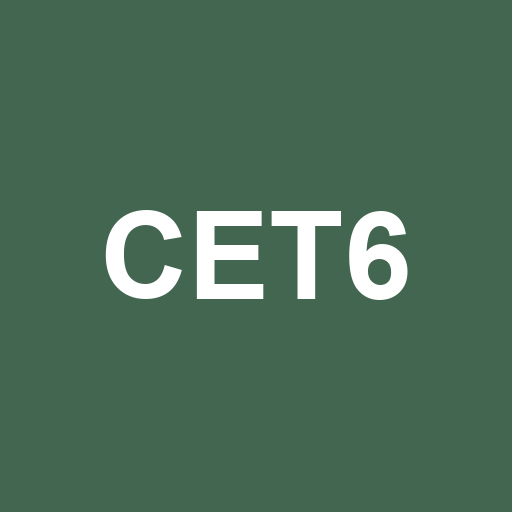
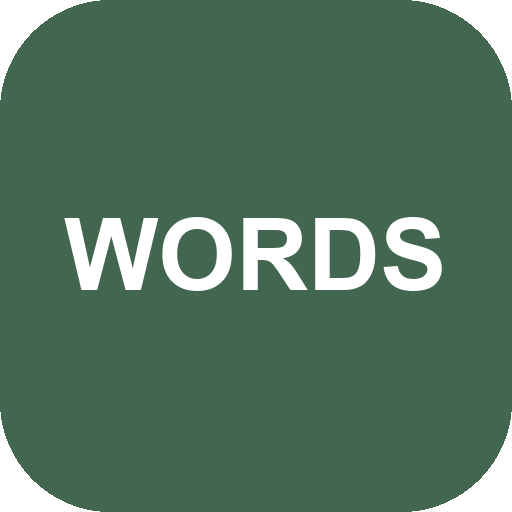
Add files via upload

diff --git a/app.js b/app.js
@@ -1,6 +1,8 @@
 'use strict';
 const $ = s => document.querySelector(s);
 const LABELS = ['陌生', '初识', '模糊', '熟悉', '已掌握'];
+// 展示用词书名称配置；不改变词库、学习设置或存储键。
+const APP_CONFIG = {activeBookName:'CET-6 六级词汇'};
 const DEFAULTS = {dailyNew:40, autoSpeak:false, gestures:false};
 let settings = {...DEFAULTS}, db, words = [], records = [], session = null, revealed = false, busy = false, listLimit = 80;
 let savedSettings, visibleDay = day(), refreshPending = false, clockTimer, utterance = null, appReady = false;
@@ -80,7 +82,7 @@ function home() {
   p.fresh=[...pending.values()].filter(isNew);p.reviews=[...pending.values()].filter(w=>!isNew(w));p.weak=[];
   const remaining=pending.size;
   const percent = r.completedWords + remaining ? Math.round(r.completedWords/(r.completedWords+remaining)*100) : 0;
-  return `<div class="eyebrow">YOUR DAILY PRACTICE</div><h1>CET-6 · 550+</h1><p class="muted">把每一天的小进步，变成考场上的底气。</p><section class="panel"><div class="row"><h2>今日任务</h2><span class="caption">${new Date().toLocaleDateString('zh-CN',{month:'long',day:'numeric'})}</span></div><div class="metrics"><div class="metric"><strong>${p.reviews.length+p.weak.length}</strong><span>今日待复习</span></div><div class="metric"><strong>${p.fresh.length}</strong><span>今日新词</span></div><div class="metric"><strong>${r.completedWords}</strong><span>今日已完成</span></div></div><div class="row caption"><span>今日进度</span><span>${percent}%</span></div><progress value="${percent}" max="100"></progress><button class="primary wide" data-action="start">${session?.queue.length ? '继续今日学习' : '开始今日学习'} <span aria-hidden="true">→</span></button></section><div class="overview"><div class="stat"><span>连续学习</span><strong>${streak()} 天</strong></div><div class="stat"><span>当前总词数</span><strong>${words.length}</strong></div>${[0,2,3,4].map(n=>`<div class="stat"><span>${LABELS[n]}词</span><strong>${words.filter(w=>w.mastery===n).length}</strong></div>`).join('')}</div><p class="tip">先回忆，再看答案。记不住的词，今天还会再见。<br>内置 20 个示例词，可在「我的」导入自己的词库。</p>`;
+  return `<div class="eyebrow">YOUR DAILY PRACTICE</div><h1>WORDS</h1><p class="muted">每天一点，慢慢记住。</p><p class="caption">当前词书：${esc(APP_CONFIG.activeBookName)}</p><section class="panel"><div class="row"><h2>今日任务</h2><span class="caption">${new Date().toLocaleDateString('zh-CN',{month:'long',day:'numeric'})}</span></div><div class="metrics"><div class="metric"><strong>${p.reviews.length+p.weak.length}</strong><span>今日待复习</span></div><div class="metric"><strong>${p.fresh.length}</strong><span>今日新词</span></div><div class="metric"><strong>${r.completedWords}</strong><span>今日已完成</span></div></div><div class="row caption"><span>今日进度</span><span>${percent}%</span></div><progress value="${percent}" max="100"></progress><button class="primary wide" data-action="start">${session?.queue.length ? '继续今日学习' : '开始今日学习'} <span aria-hidden="true">→</span></button></section><div class="overview"><div class="stat"><span>连续学习</span><strong>${streak()} 天</strong></div><div class="stat"><span>当前总词数</span><strong>${words.length}</strong></div>${[0,2,3,4].map(n=>`<div class="stat"><span>${LABELS[n]}词</span><strong>${words.filter(w=>w.mastery===n).length}</strong></div>`).join('')}</div><p class="tip">先回忆，再看答案。记不住的词，今天还会再见。<br>内置 20 个示例词，可在「我的」导入自己的词库。</p>`;
 }
 async function start() {
   return withWrite(async()=>{
@@ -97,11 +99,27 @@ async function start() {
   });
 }
 function autoSpeak() { if (settings.autoSpeak && session?.date===day() && session.queue.length && location.hash==='#study') speak(session.queue[0]); }
+function importanceHTML(w) {
+  return w.level?.toLowerCase()==='cet6'&&Number.isInteger(w.importance)&&w.importance>=1&&w.importance<=5 ? `<div class="importance" aria-label="六级重要度 ${w.importance} 星"><span aria-hidden="true">${'★'.repeat(w.importance)}${'☆'.repeat(5-w.importance)}</span><small>六级重要度</small></div>` : '';
+}
+function wordMetadata(w,full=false) {
+  // 核心词性随答案一起呈现，避免展示全量词典词性或重复占据屏幕。
+  const pos=full?w.pos:w.coreMeaning?.trim()?'':w.corePos||w.pos;
+  return `${w.phonetic?.trim()?`<div class="phonetic">${esc(w.phonetic)}</div>`:''}${pos?.trim()?`<div class="word-pos">${esc(pos)}</div>`:''}${importanceHTML(w)}`;
+}
+function meaningHTML(w,full=false) {
+  // 仅按来源已有的换行排版；不将未标注的中文意思猜配给某个词性。
+  const meaning=!full&&w.coreMeaning?.trim()?`${w.corePos?.trim()?w.corePos+' ':''}${w.coreMeaning}`:w.meaning;
+  return meaning.split(/\r?\n/).filter(line=>line.trim()).map(line=>`<div class="meaning-line">${esc(line)}</div>`).join('');
+}
+function answerHTML(w,full=false) {
+  return `<div class="answer"><div class="meaning">${meaningHTML(w,full)}</div>${w.example?.trim()?`<p class="example" lang="en">${esc(w.example)}</p>`:''}${w.exampleZh?.trim()?`<p class="muted example-zh">${esc(w.exampleZh)}</p>`:''}${full&&w.definition?.trim()?`<div class="dictionary-definition"><span class="caption">英文释义 · 完整词典义项</span><p class="example" lang="en">${esc(w.definition)}</p></div>`:''}<span class="badge">当前状态 · ${LABELS[w.mastery]}</span></div>`;
+}
 function study() {
   const waiting=words.some(w=>w.nextReview&&Date.parse(w.nextReview)>Date.now()&&Date.parse(w.nextReview)<=Date.now()+10*60000);
   if (!session || session.date !== day() || !session.queue.length) return `<div class="eyebrow">ONE WORD AT A TIME</div><h1>留一点时间，给记忆。</h1><section class="panel empty"><p>${session?.answered ? waiting?'本轮暂告一段落，稍后可再练未记住的词。':'本轮学习完成，做得不错。' : '准备好开始今天的学习了吗？'}</p><button class="primary wide" data-action="start">开始今日学习</button></section><p class="tip">到期复习优先，其次是容易遗忘的词，最后是新词。</p>`;
   const w = words.find(w=>w.word===session.queue[0]); if (!w) return '<p>词库记录缺失，请重新开始学习。</p>';
-  return `<div class="study-head row"><span class="caption">今日学习</span><strong>${session.answered+1} / ${session.answered+session.queue.length}</strong></div><progress value="${session.answered}" max="${session.answered+session.queue.length}"></progress><section id="word-card" class="panel word-card ${revealed?'revealed':''}"><div id="gesture-zone" class="${settings.gestures&&revealed?'gesture-surface':''}"><span class="badge">${w.reviewCount?'复习单词':'新单词'}</span><h1 class="word">${esc(w.word)}</h1><div class="phonetic">${esc(w.phonetic)}</div><div class="word-tools"><button class="icon" data-action="speak" data-word="${esc(w.word)}" aria-label="朗读单词">♪</button><button class="icon" data-action="favorite" data-word="${esc(w.word)}" aria-label="${w.favorite?'取消收藏':'收藏单词'}" aria-pressed="${w.favorite}">${w.favorite?'★':'☆'}</button></div></div>${revealed?`<div class="answer"><div class="meaning">${esc(w.meaning)}</div><p class="example">${esc(w.example)}</p><p class="muted">${esc(w.exampleZh)}</p><span class="badge">当前状态 · ${LABELS[w.mastery]}</span></div>`:'<p class="tip">想一想，它是什么意思？</p>'}</section><p class="caption" style="text-align:center">${settings.gestures?'答案显示后：左滑不认识 · 上滑模糊 · 右滑认识':'按自己的记忆情况选择，不用急。'}</p><div class="actions"><div class="actions-inner">${revealed?'<button class="unknown" data-answer="0">不认识</button><button class="fuzzy" data-answer="1">模糊</button><button class="primary" data-answer="2">认识</button>':'<button class="primary" data-action="reveal">显示答案</button>'}</div></div>`;
+  return `<div class="study-head row"><span class="caption">今日学习</span><strong>${session.answered+1} / ${session.answered+session.queue.length}</strong></div><progress value="${session.answered}" max="${session.answered+session.queue.length}"></progress><section id="word-card" class="panel word-card ${revealed?'revealed':''}"><div id="gesture-zone" class="${settings.gestures&&revealed?'gesture-surface':''}"><span class="badge">${w.reviewCount?'复习单词':'新单词'}</span><h1 class="word">${esc(w.word)}</h1>${wordMetadata(w)}<div class="word-tools"><button class="icon" data-action="speak" data-word="${esc(w.word)}" aria-label="朗读单词">♪</button><button class="icon" data-action="favorite" data-word="${esc(w.word)}" aria-label="${w.favorite?'取消收藏':'收藏单词'}" aria-pressed="${w.favorite}">${w.favorite?'★':'☆'}</button></div></div>${revealed?answerHTML(w):'<p class="tip">想一想，它是什么意思？</p>'}</section><p class="caption" style="text-align:center">${settings.gestures?'答案显示后：左滑不认识 · 上滑模糊 · 右滑认识':'按自己的记忆情况选择，不用急。'}</p><div class="actions"><div class="actions-inner">${revealed?'<button class="unknown" data-answer="0">不认识</button><button class="fuzzy" data-answer="1">模糊</button><button class="primary" data-answer="2">认识</button>':'<button class="primary" data-action="reveal">显示答案</button>'}</div></div>`;
 }
 async function answer(value) {
   if (busy || !revealed || !session?.queue.length || ![0,1,2].includes(value)) return;
@@ -137,7 +155,7 @@ function updateList() {
 }
 function detail(id) {
   const w = words.find(w=>w.word===id); if (!w) return '<p>没有找到这个单词。</p>';
-  return `<button class="quiet back" data-action="back">← 返回词库</button><section class="panel"><h1 class="word">${esc(w.word)}</h1><p class="phonetic">${esc(w.phonetic)}</p><div class="row"><button data-action="speak" data-word="${esc(w.word)}">♪ 发音</button><button data-action="favorite" data-word="${esc(w.word)}">${w.favorite?'★ 已收藏':'☆ 收藏'}</button></div><div class="answer"><p class="meaning">${esc(w.meaning)}</p><p>${esc(w.example)}</p><p class="muted">${esc(w.exampleZh)}</p></div><div class="setting"><label>掌握等级<select id="mastery" data-word="${esc(w.word)}">${LABELS.map((l,i)=>`<option value="${i}" ${w.mastery===i?'selected':''}>${l}</option>`).join('')}</select></label></div><div class="detail-info"><div><span>复习次数</span>${w.reviewCount}</div><div><span>收藏</span>${w.favorite?'是':'否'}</div><div><span>上次复习</span>${dateText(w.lastReview)}</div><div><span>下次复习</span>${dateText(w.nextReview)}</div></div></section>`;
+  return `<button class="quiet back" data-action="back">← 返回词库</button><section class="panel"><h1 class="word">${esc(w.word)}</h1>${wordMetadata(w,true)}<div class="row"><button data-action="speak" data-word="${esc(w.word)}">♪ 发音</button><button data-action="favorite" data-word="${esc(w.word)}">${w.favorite?'★ 已收藏':'☆ 收藏'}</button></div>${answerHTML(w,true)}<div class="setting"><label>掌握等级<select id="mastery" data-word="${esc(w.word)}">${LABELS.map((l,i)=>`<option value="${i}" ${w.mastery===i?'selected':''}>${l}</option>`).join('')}</select></label></div><div class="detail-info"><div><span>复习次数</span>${w.reviewCount}</div><div><span>收藏</span>${w.favorite?'是':'否'}</div><div><span>上次复习</span>${dateText(w.lastReview)}</div><div><span>下次复习</span>${dateText(w.nextReview)}</div></div></section>`;
 }
 function me() {
   const r = todayRecord(), week = records.filter(r=>r.date>=shiftDay(-6)&&r.date<=day()).reduce((sum,r)=>sum+r.completedWords,0);
@@ -230,7 +248,9 @@ function normalizeWord(w,full=false) {
   // 可选词库元数据：旧词库缺失时使用空值，CSV 数值转为数字。
   const rawFrequency=w.frequency, frequency=rawFrequency==null || typeof rawFrequency==='string'&&!rawFrequency.trim() ? null : Number(rawFrequency);
   if(frequency!==null&&(!['string','number'].includes(typeof rawFrequency)||!Number.isFinite(frequency)||frequency<0))throw new Error('frequency 必须为非负数字或空值');
-  const out={word:w.word.trim().toLowerCase(),phonetic:optionalText(w.phonetic,'phonetic'),meaning:w.meaning.trim(),example:optionalText(w.example,'example'),exampleZh:optionalText(w.exampleZh,'exampleZh'),frequency,level:optionalText(w.level,'level',true),source:optionalText(w.source,'source'),mastery:0,reviewCount:0,lastReview:null,nextReview:null,favorite:false,createdAt:new Date().toISOString()};
+  const importance=w.importance==null||typeof w.importance==='string'&&!w.importance.trim()?null:Number(w.importance);
+  if(importance!==null&&(!['number','string'].includes(typeof w.importance)||!Number.isInteger(importance)||importance<1||importance>5))throw new Error('importance 必须为 1–5 的整数或空值');
+  const out={word:w.word.trim().toLowerCase(),phonetic:optionalText(w.phonetic,'phonetic'),meaning:w.meaning.trim(),example:optionalText(w.example,'example'),exampleZh:optionalText(w.exampleZh,'exampleZh'),frequency,level:optionalText(w.level,'level',true),source:optionalText(w.source,'source'),pos:optionalText(w.pos,'pos'),definition:optionalText(w.definition,'definition'),importance,importanceReason:optionalText(w.importanceReason,'importanceReason'),corePos:optionalText(w.corePos,'corePos'),coreMeaning:optionalText(w.coreMeaning,'coreMeaning'),mastery:0,reviewCount:0,lastReview:null,nextReview:null,favorite:false,createdAt:new Date().toISOString()};
   if(full){if(!Number.isInteger(w.mastery)||w.mastery<0||w.mastery>4||!Number.isSafeInteger(w.reviewCount)||w.reviewCount<0||typeof w.favorite!=='boolean')throw new Error('备份中的学习进度格式无效');Object.assign(out,{mastery:w.mastery,reviewCount:w.reviewCount,lastReview:normalizeDate(w.lastReview),nextReview:normalizeDate(w.nextReview),favorite:w.favorite,createdAt:normalizeDate(w.createdAt)||out.createdAt});if(w.reviewCount>0&&(!out.lastReview||!out.nextReview))throw new Error('已学习单词缺少复习日期');}
   return out;
 }
@@ -241,8 +261,18 @@ function mergeDictionary(old,incoming) {
   let changed=false;
   const fill=k=>{if((old[k]==null||typeof old[k]==='string'&&!old[k].trim())&&old[k]!==incoming[k]){old[k]=incoming[k];changed=true;}};
   ['phonetic','meaning','frequency','level','source'].forEach(fill);
+  // 增强字段可以更新；空字段不抹除已有内容。学习字段始终不参与合并。
+  for(const k of ['pos','definition','importance','importanceReason','corePos','coreMeaning']){
+    if(incoming[k]!=null&&incoming[k]!==''&&old[k]!==incoming[k]){old[k]=incoming[k];changed=true;}
+  }
+  // 保留原中文释义，仅接受在原文之后追加的补充内容。
+  if(incoming.meaning?.startsWith(old.meaning+'\n')&&incoming.meaning!==old.meaning){old.meaning=incoming.meaning;changed=true;}
   // 中英文例句必须对应，不能把另一条例句的翻译补到已有英文上。
-  if(!old.example?.trim()&&(!old.exampleZh?.trim()||old.exampleZh.trim()===incoming.exampleZh)){fill('example');fill('exampleZh');}
+  if(incoming.corePos&&incoming.coreMeaning&&incoming.example&&incoming.exampleZh){
+    // 经核心义清洗的词包可以修正已有例句，且中英文作为一对同步更新。
+    for(const k of ['example','exampleZh'])if(old[k]!==incoming[k]){old[k]=incoming[k];changed=true;}
+  }
+  else if(!old.example?.trim()&&(!old.exampleZh?.trim()||old.exampleZh.trim()===incoming.exampleZh)){fill('example');fill('exampleZh');}
   else if(old.example?.trim()===incoming.example)fill('exampleZh');
   return changed;
 }
@@ -264,7 +294,7 @@ async function exportData() {
   const url=URL.createObjectURL(new Blob([JSON.stringify(data,null,2)],{type:'application/json'})),a=document.createElement('a');a.href=url;a.download=`cet6-backup-${day()}.json`;document.body.append(a);a.click();a.remove();setTimeout(()=>URL.revokeObjectURL(url),30000);notify('备份已导出，请保存好 JSON 文件');
 }
 async function restoreData(data) {
-  if(data?.format!=='cet6-backup'||data.version!==1||!Array.isArray(data.words)||!Array.isArray(data.records)||!Array.isArray(data.meta))throw new Error('不是有效的 CET6 备份文件');
+  if(data?.format!=='cet6-backup'||data.version!==1||!Array.isArray(data.words)||!Array.isArray(data.records)||!Array.isArray(data.meta))throw new Error('不是有效的学习备份文件');
   const restored=data.words.map(w=>normalizeWord(w,true)), ids=new Set(restored.map(w=>w.word));if(ids.size!==restored.length)throw new Error('备份词库存在重复单词');
   validateRecords(data.records,ids);
   validateMeta(data.meta,ids);

diff --git a/index.html b/index.html
@@ -4,11 +4,12 @@
   <meta charset="UTF-8"><meta name="viewport" content="width=device-width, initial-scale=1, viewport-fit=cover">
   <meta name="theme-color" content="#426650"><meta name="apple-mobile-web-app-capable" content="yes">
   <meta name="apple-mobile-web-app-status-bar-style" content="default">
+  <meta name="apple-mobile-web-app-title" content="WORDS">
   <link rel="manifest" href="manifest.json"><link rel="icon" href="icons/icon.svg"><link rel="apple-touch-icon" href="icons/icon-192.png">
-  <link rel="stylesheet" href="style.css"><title>CET-6 Words</title>
+  <link rel="stylesheet" href="style.css"><title>WORDS</title>
 </head>
 <body>
-  <header class="brand"><a href="#home">CET6 <span>WORDS</span></a><span class="local-note">每天一点，慢慢记住。</span></header>
+  <header class="brand"><a href="#home">WORDS</a><span class="local-note">每天一点，慢慢记住。</span></header>
   <main id="app" aria-live="polite"><p>正在打开你的词库…</p></main>
   <nav aria-label="主导航" id="nav"><a href="#home">⌂<span>首页</span></a><a href="#study">Aa<span>背词</span></a><a href="#library">▤<span>词库</span></a><a href="#me">☷<span>我的</span></a></nav>
   <div id="toast" role="status"></div>

diff --git a/service-worker.js b/service-worker.js
@@ -1,4 +1,4 @@
-const CACHE = 'cet6-shell-v9';
+const CACHE = 'cet6-shell-v12';
 const FILES = ['./index.html', './style.css', './app.js', './sample-words.json', './manifest.json', './icons/icon.svg', './icons/icon-192.png', './icons/icon-512.png'];
 const urls = FILES.map(file => new URL(file, self.registration.scope).href);
 // 每个版本缓存一整套资源；安装时跳过 HTTP 旧缓存，避免新 HTML 配上旧 JS。
